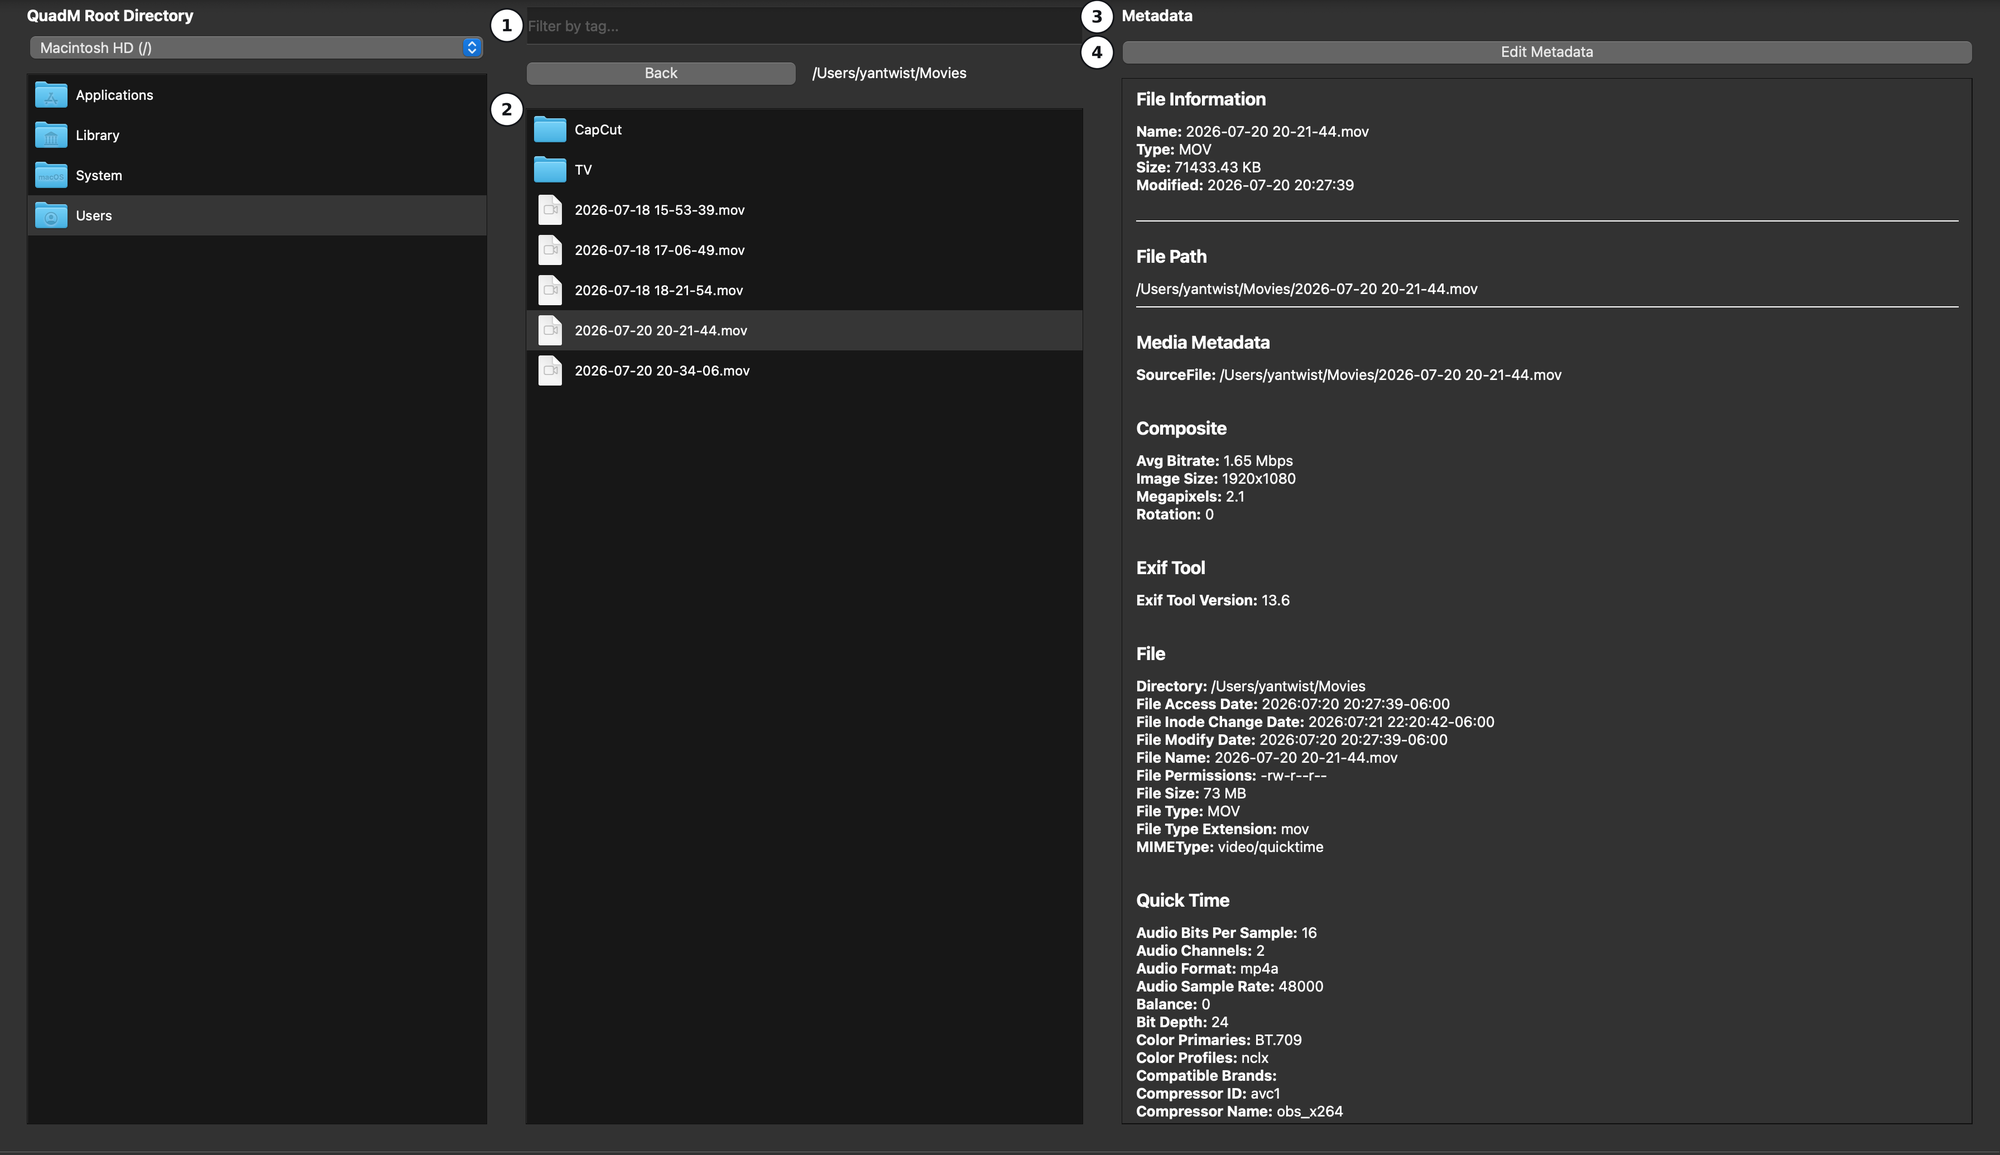
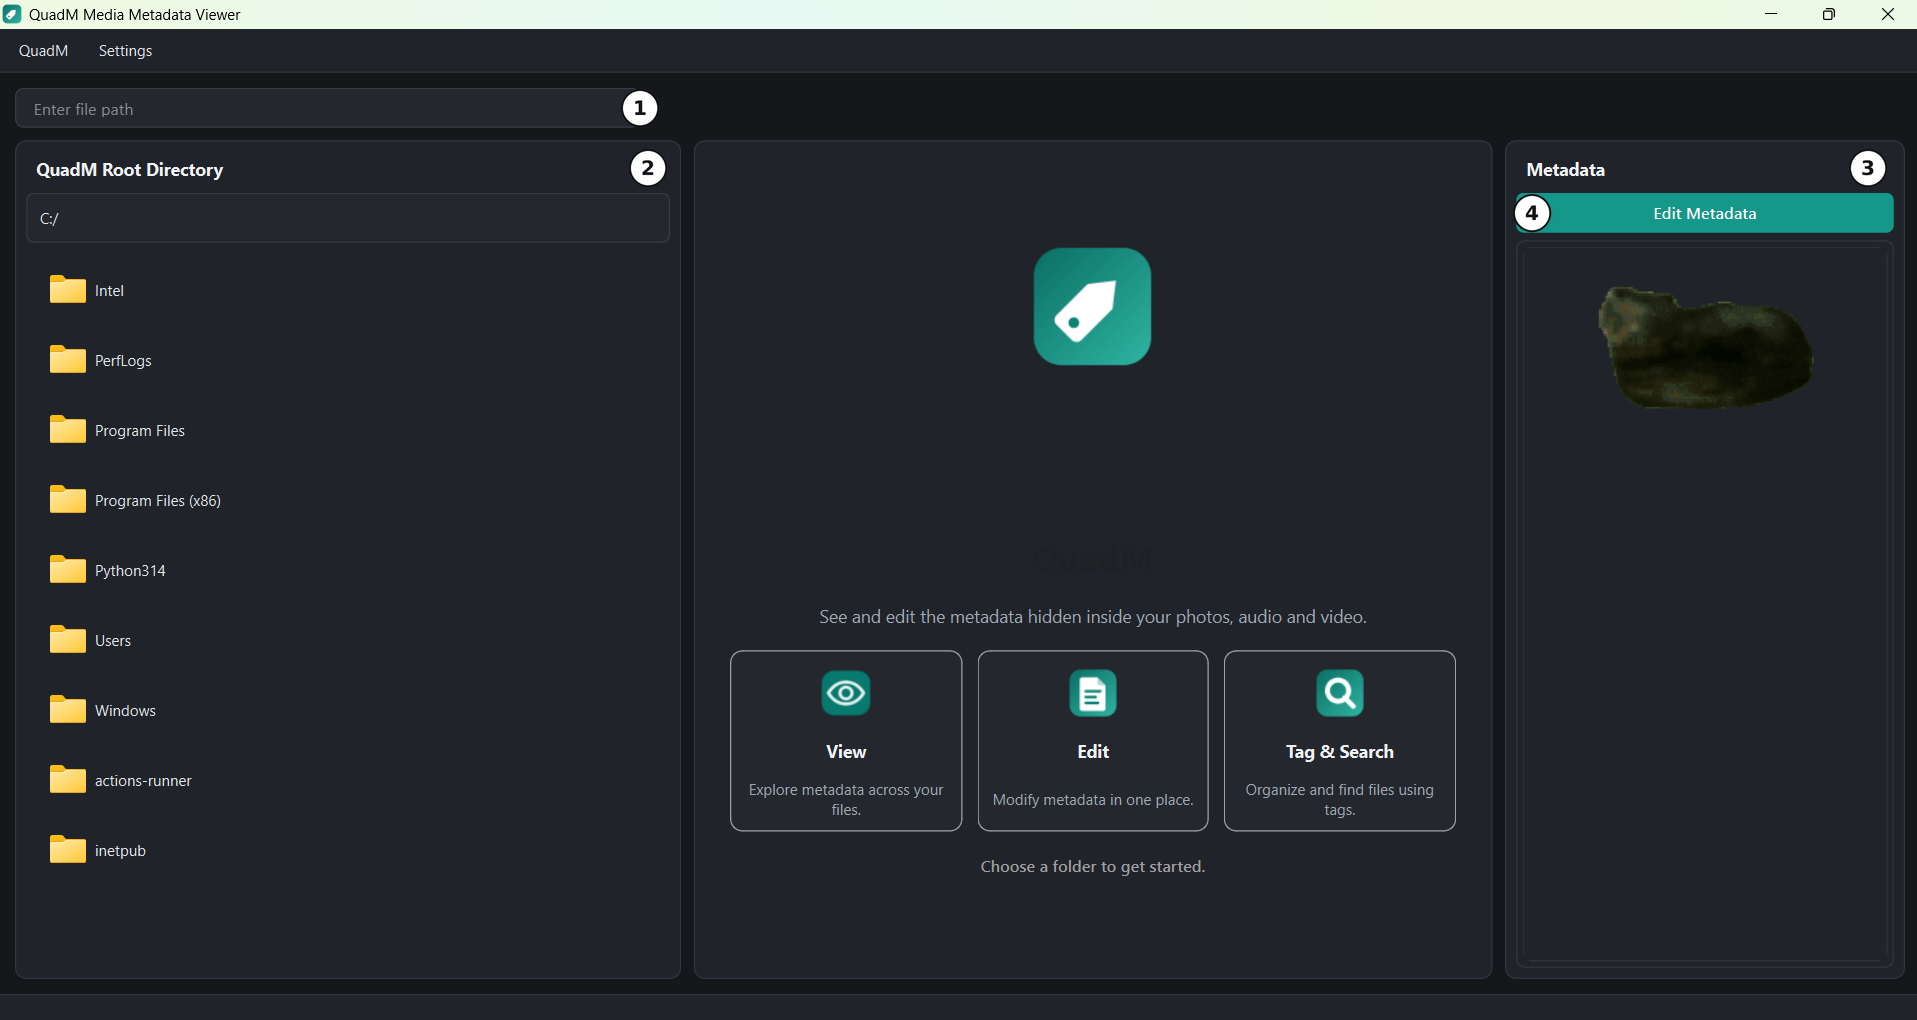
Updated the hiro section based on the last GUI.

diff --git a/code/website/index.html b/code/website/index.html
@@ -37,14 +37,14 @@
     <p class="muted small">Your original files are only changed when you press Save.</p>
     <!-- The numbered circles in the picture are explained by the legend, so the labels are real text, not part of the image. -->
     <figure class="shot-fig">
-      <img class="shot" src="assets/screenshot-main.png" width="1680" height="1034" alt="QuadM main window (design preview): a file list on the left, a preview in the middle, and metadata fields and tags on the right.">
+      <img class="shot" src="assets/screenshot-main.png" width="1917" height="1020" alt="QuadM start screen: a file path box and folder list on the left, a welcome panel in the middle and the metadata panel with an Edit Metadata button on the right.">
       <figcaption>
         Preview of the main window:
         <ol class="legend">
-          <li>Search by tag</li>
-          <li>Browse files</li>
-          <li>View and edit metadata</li>
-          <li>Add tags</li>
+          <li>Enter a file path</li>
+          <li>Browse folders</li>
+          <li>View metadata</li>
+          <li>Edit metadata</li>
         </ol>
       </figcaption>
     </figure>
